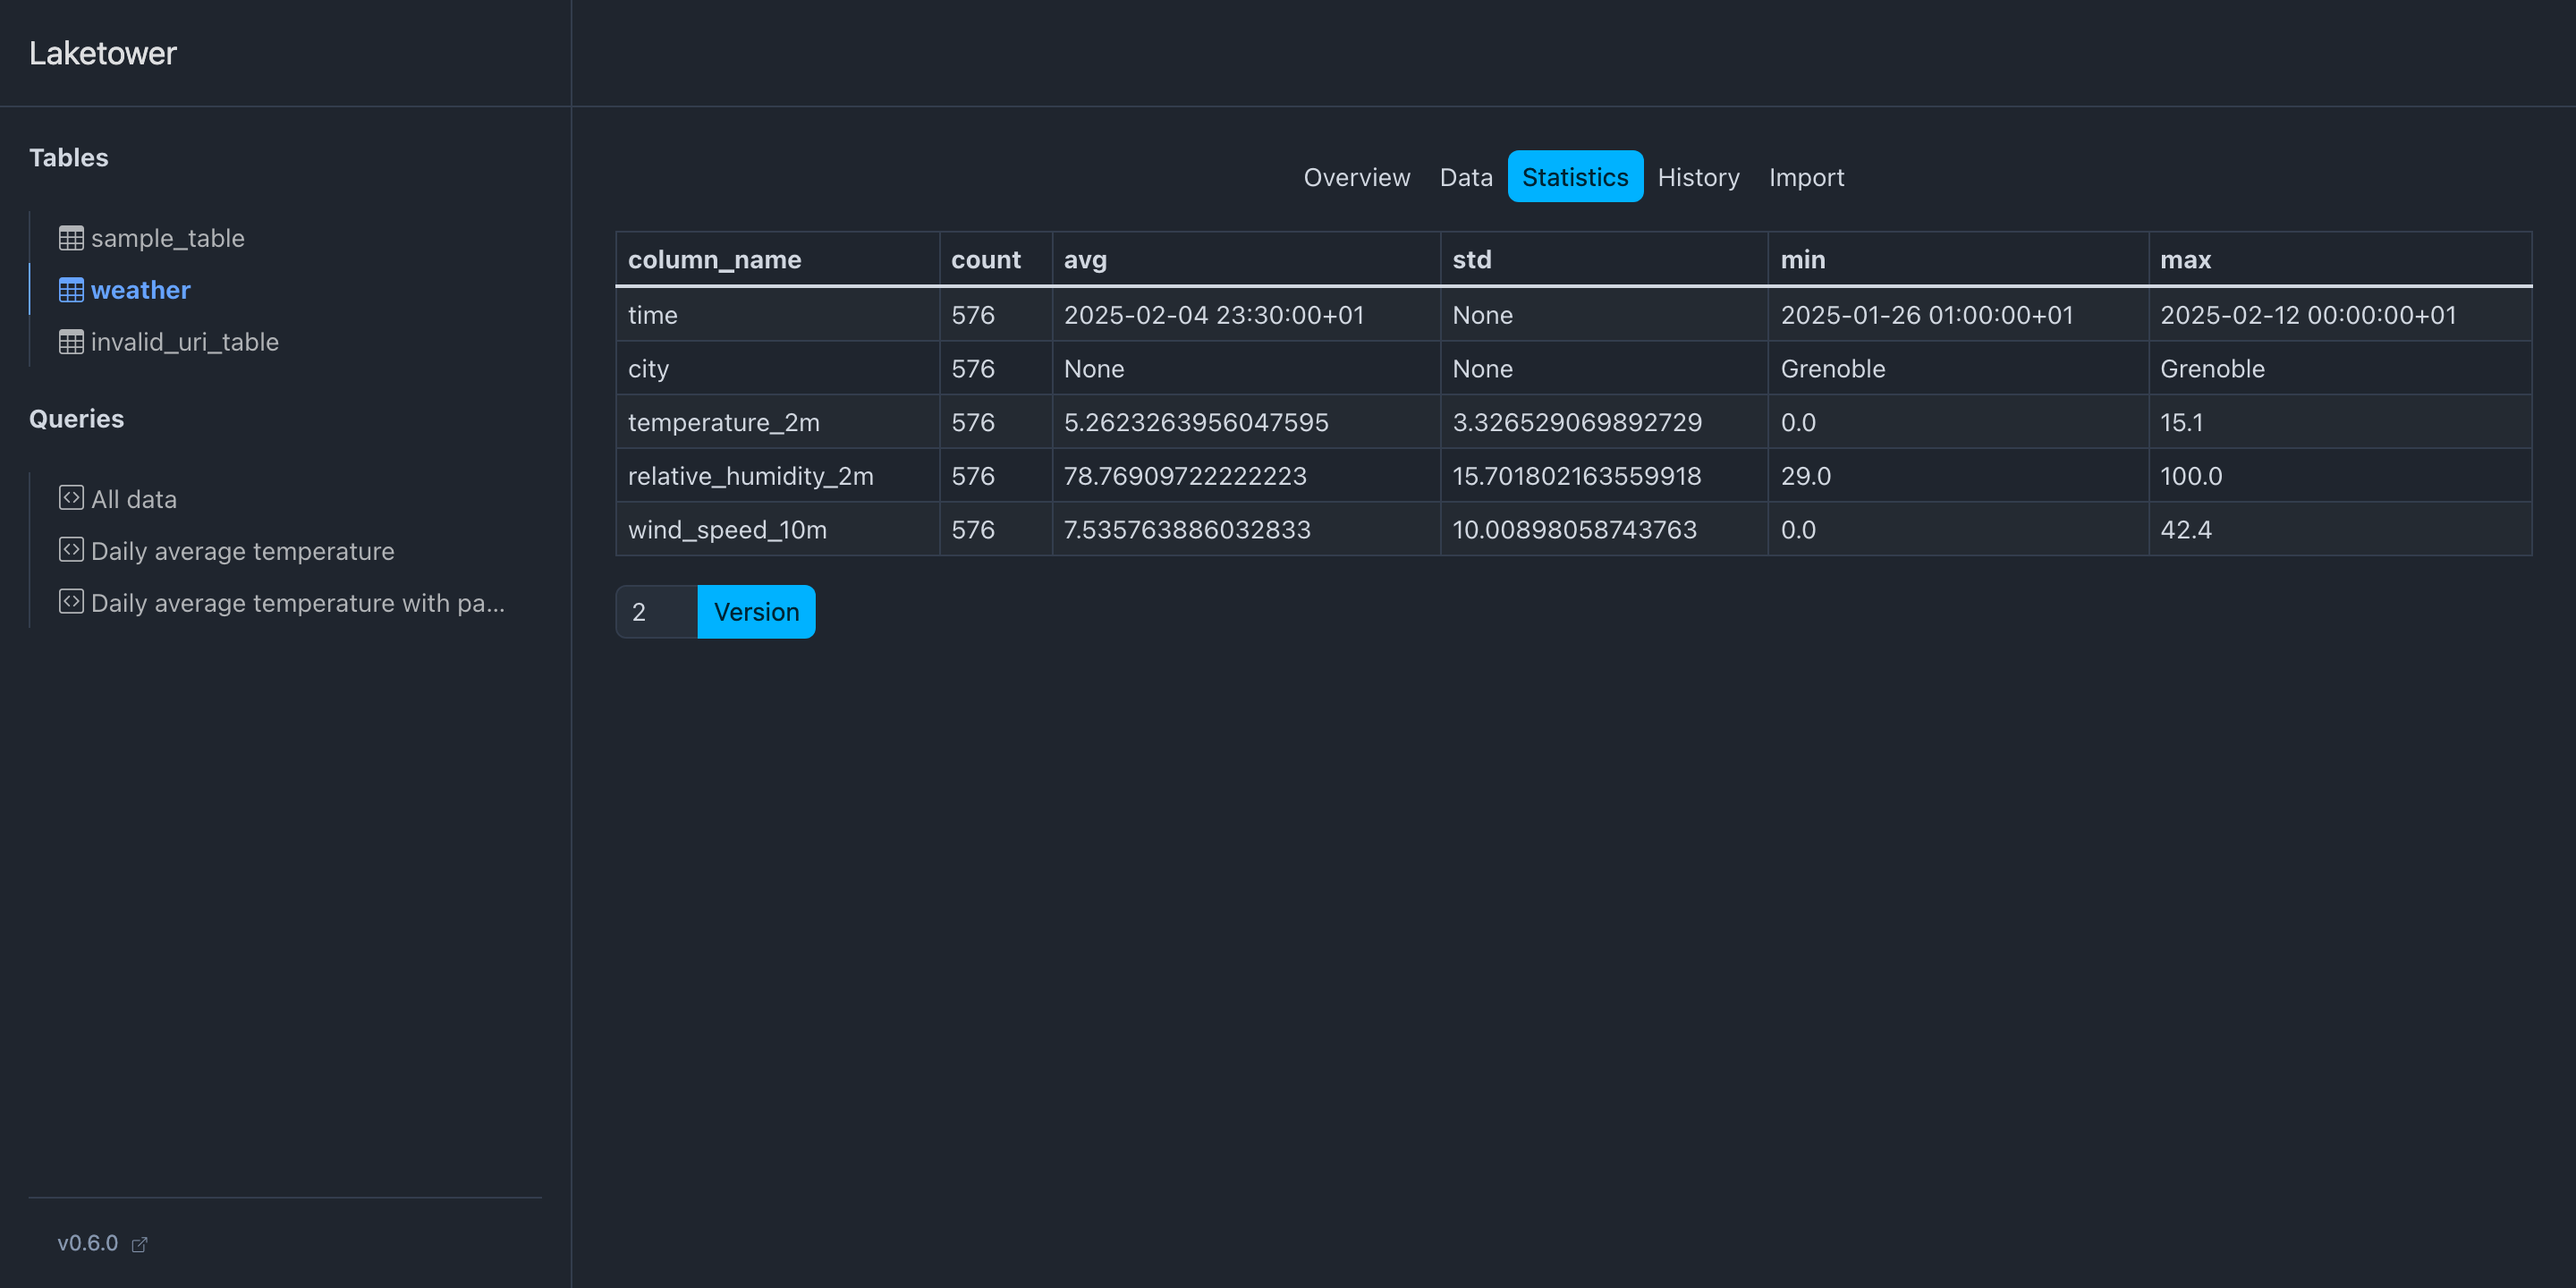
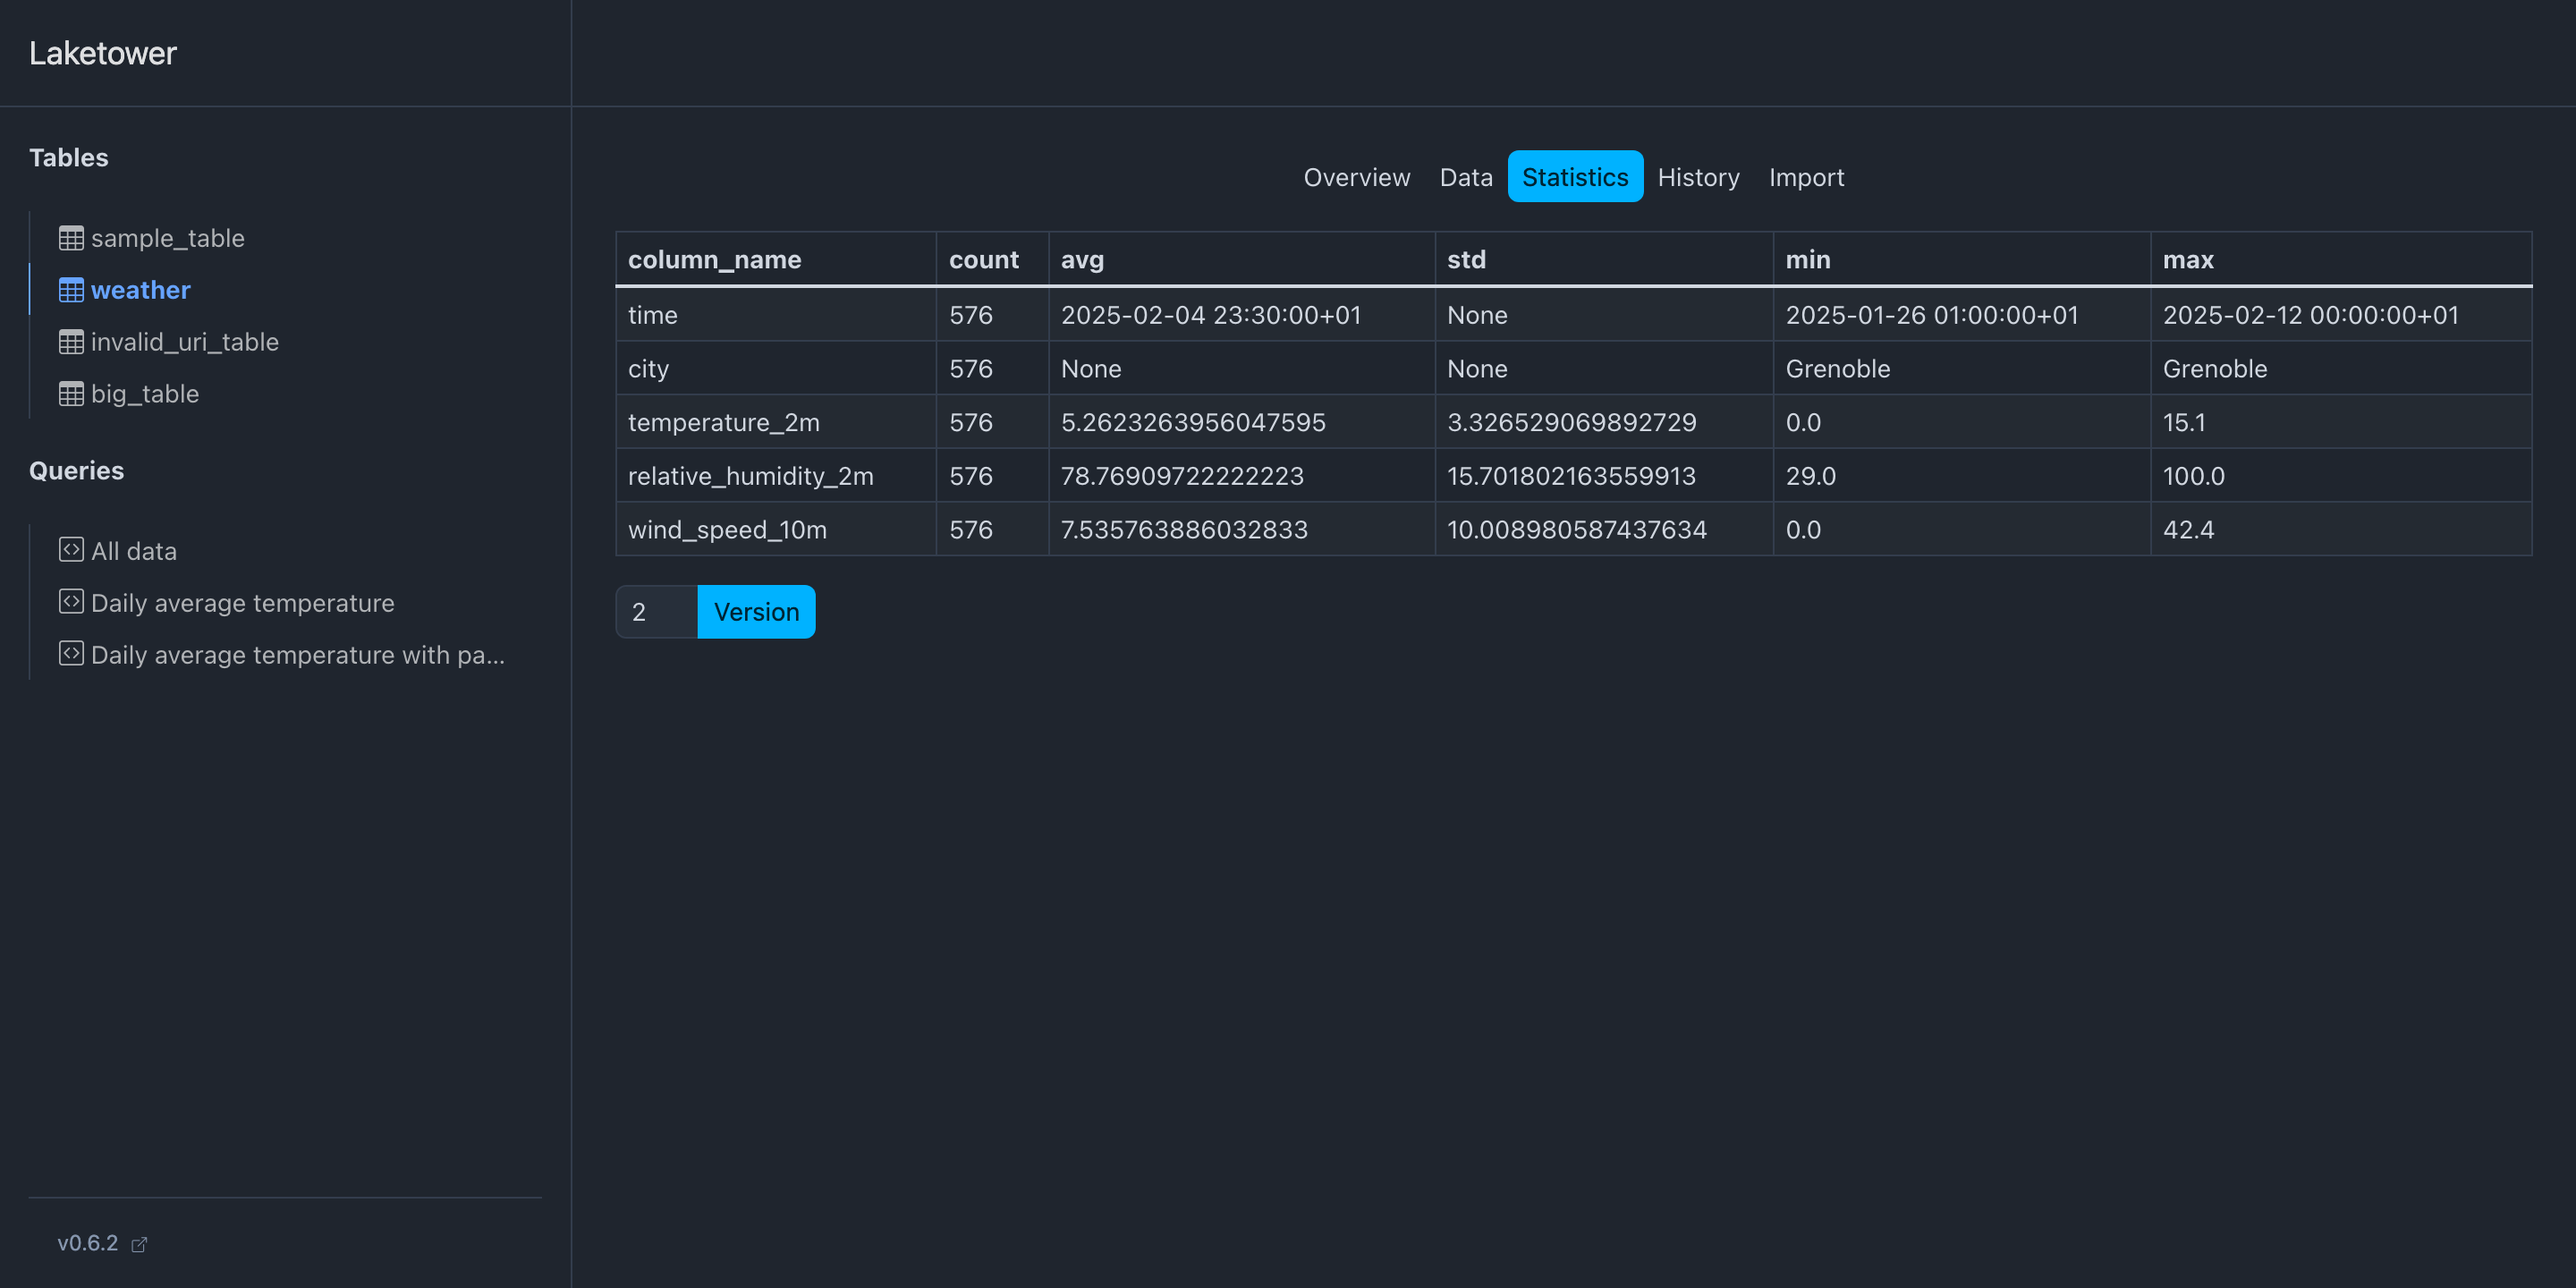
chore: release version 0.6.2

diff --git a/laketower/__about__.py b/laketower/__about__.py
@@ -1,1 +1,1 @@
-__version__ = "0.6.1"
+__version__ = "0.6.2"

diff --git a/CHANGELOG.md b/CHANGELOG.md
@@ -7,6 +7,10 @@ and this project adheres to [Semantic Versioning](https://semver.org/spec/v2.0.0
 
 ## [Unreleased]
 
+## [0.6.2] - 2025-09-28
+Patch release fixing a bug when registering Arrow Datasets as tables instead of
+views with DuckDB query engine, leading to performance degradation on larger tables.
+
 ### Fixed
 - map arrow datasets as views with DuckDB query engine
 
@@ -133,7 +137,8 @@ Initial release of `laketower`.
     - View a given table with simple query builder
     - Query all registered tables with DuckDB SQL dialect
 
-[Unreleased]: https://github.com/datalpia/laketower/compare/0.6.1...HEAD
+[Unreleased]: https://github.com/datalpia/laketower/compare/0.6.2...HEAD
+[0.6.2]: https://github.com/datalpia/laketower/compare/0.6.1...0.6.2
 [0.6.1]: https://github.com/datalpia/laketower/compare/0.6.0...0.6.1
 [0.6.0]: https://github.com/datalpia/laketower/compare/0.5.1...0.6.0
 [0.5.1]: https://github.com/datalpia/laketower/compare/0.5.0...0.5.1
